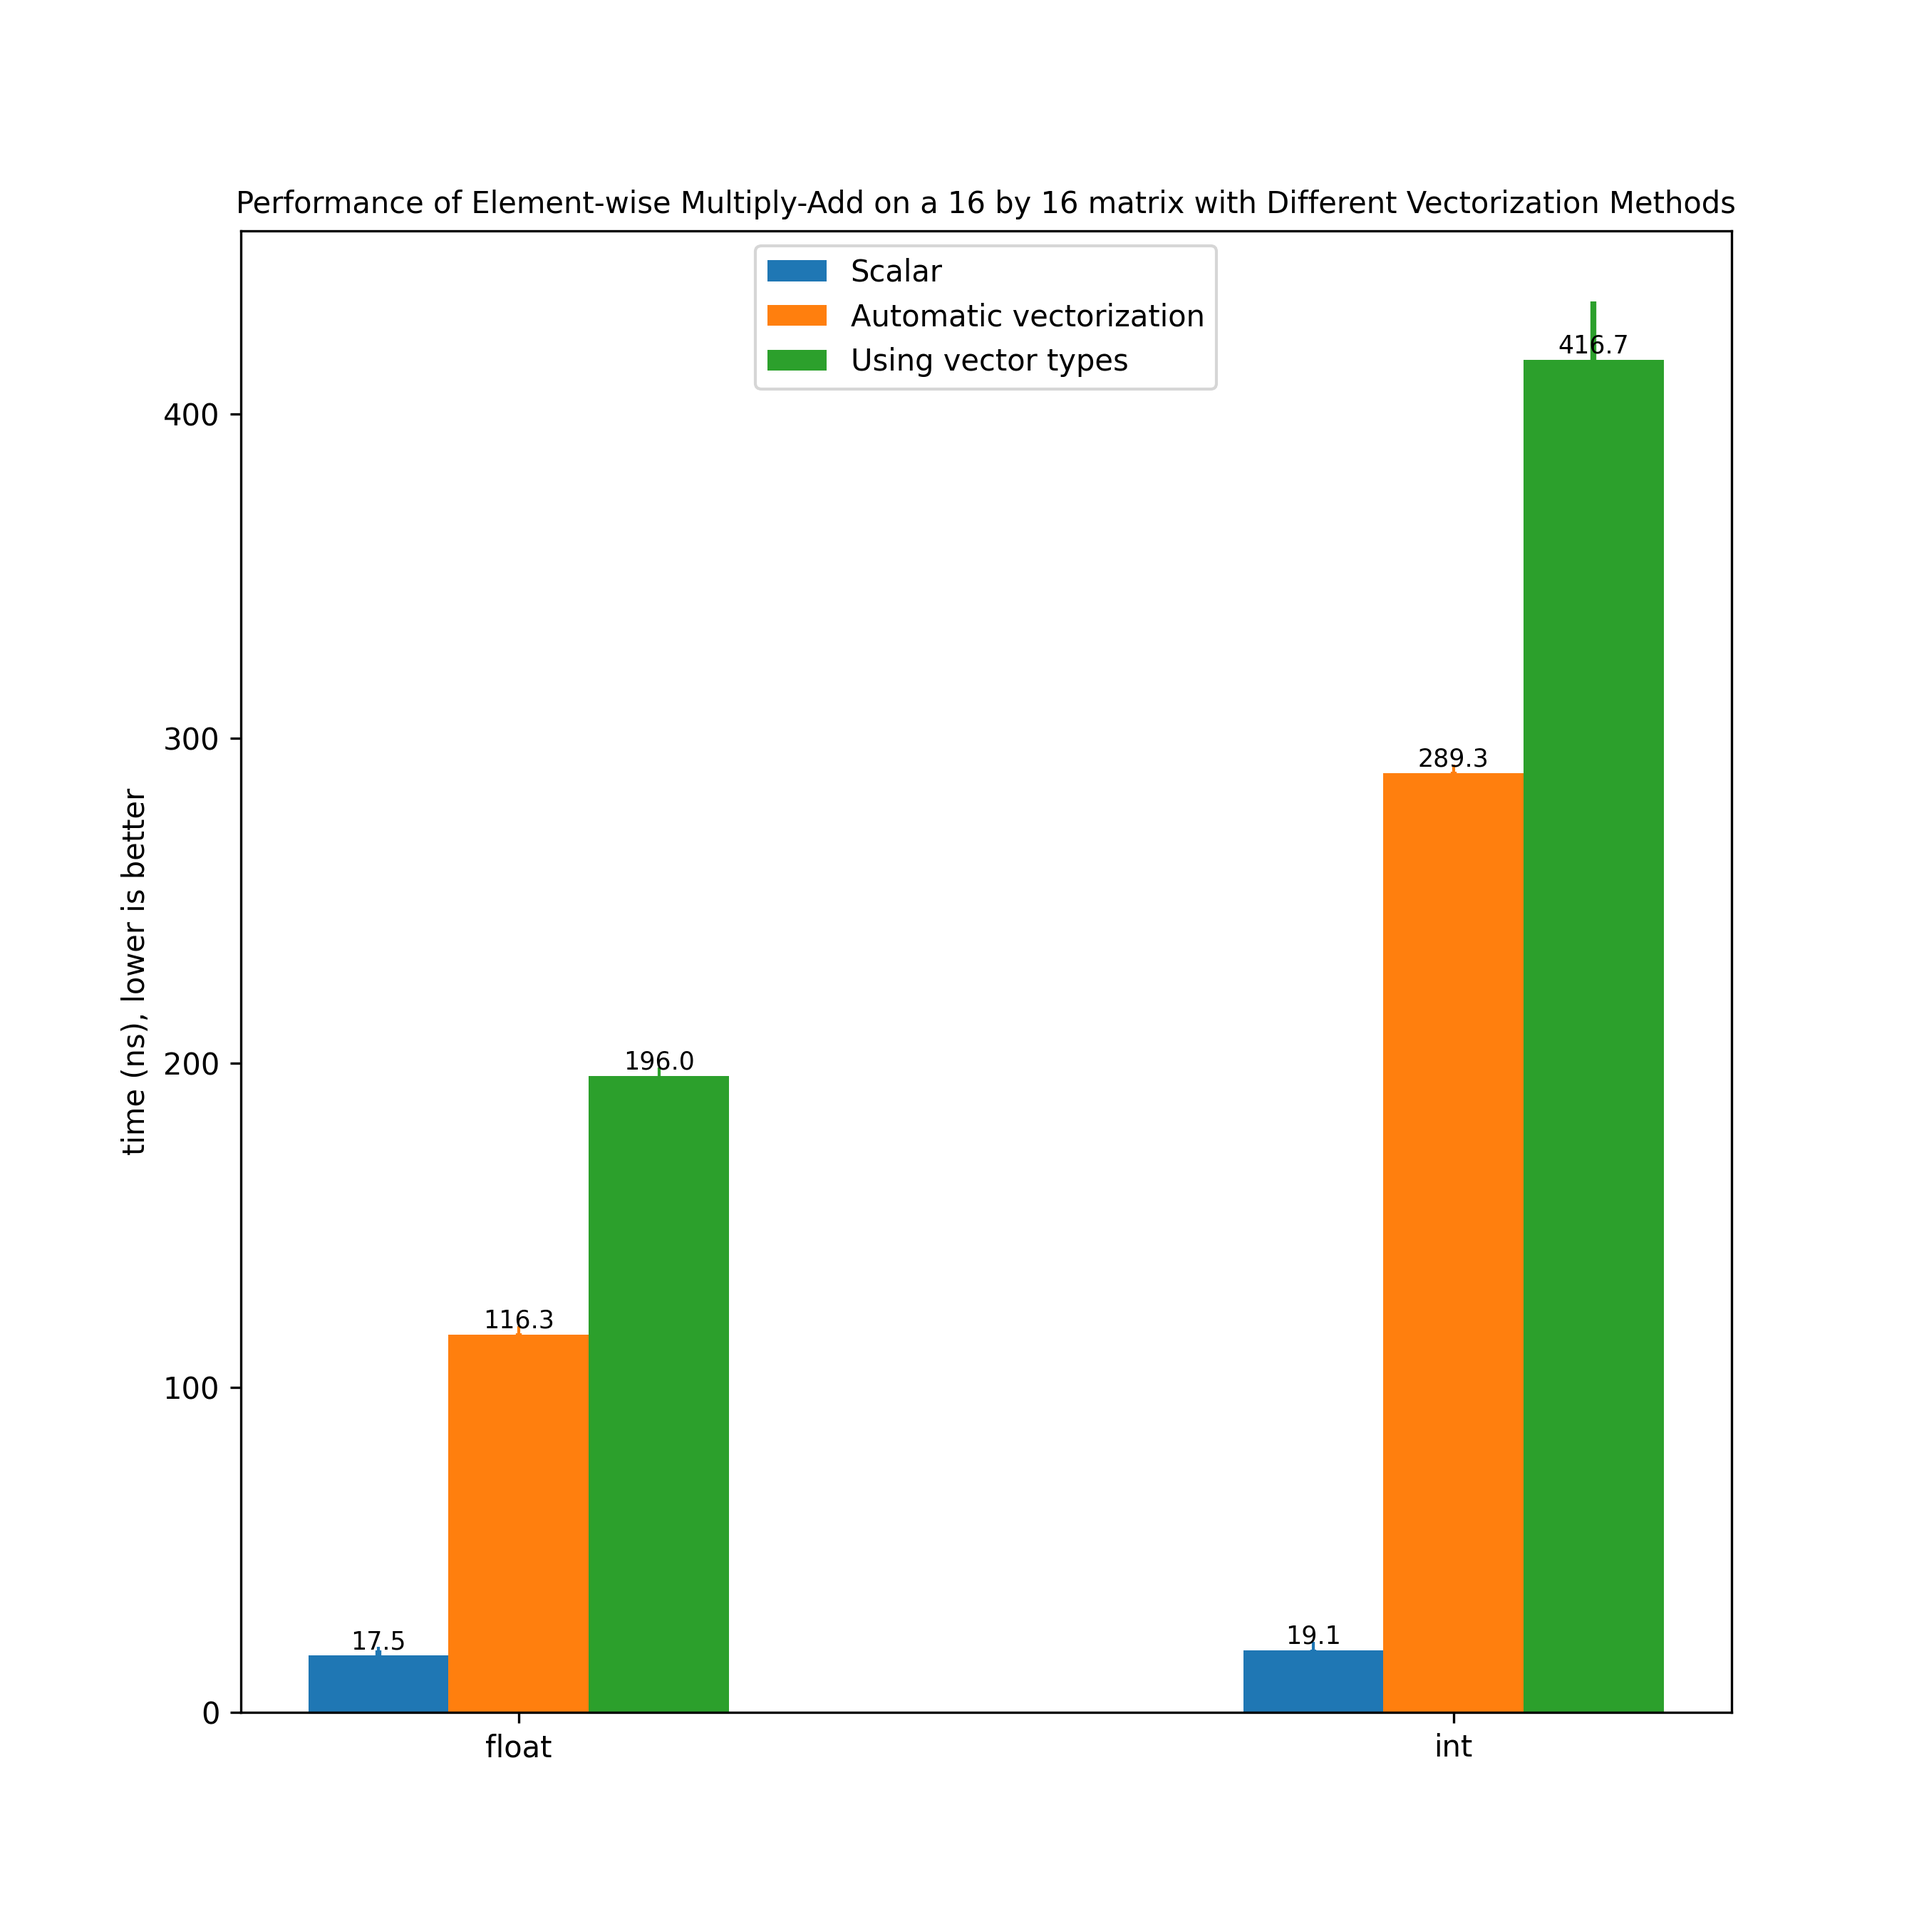
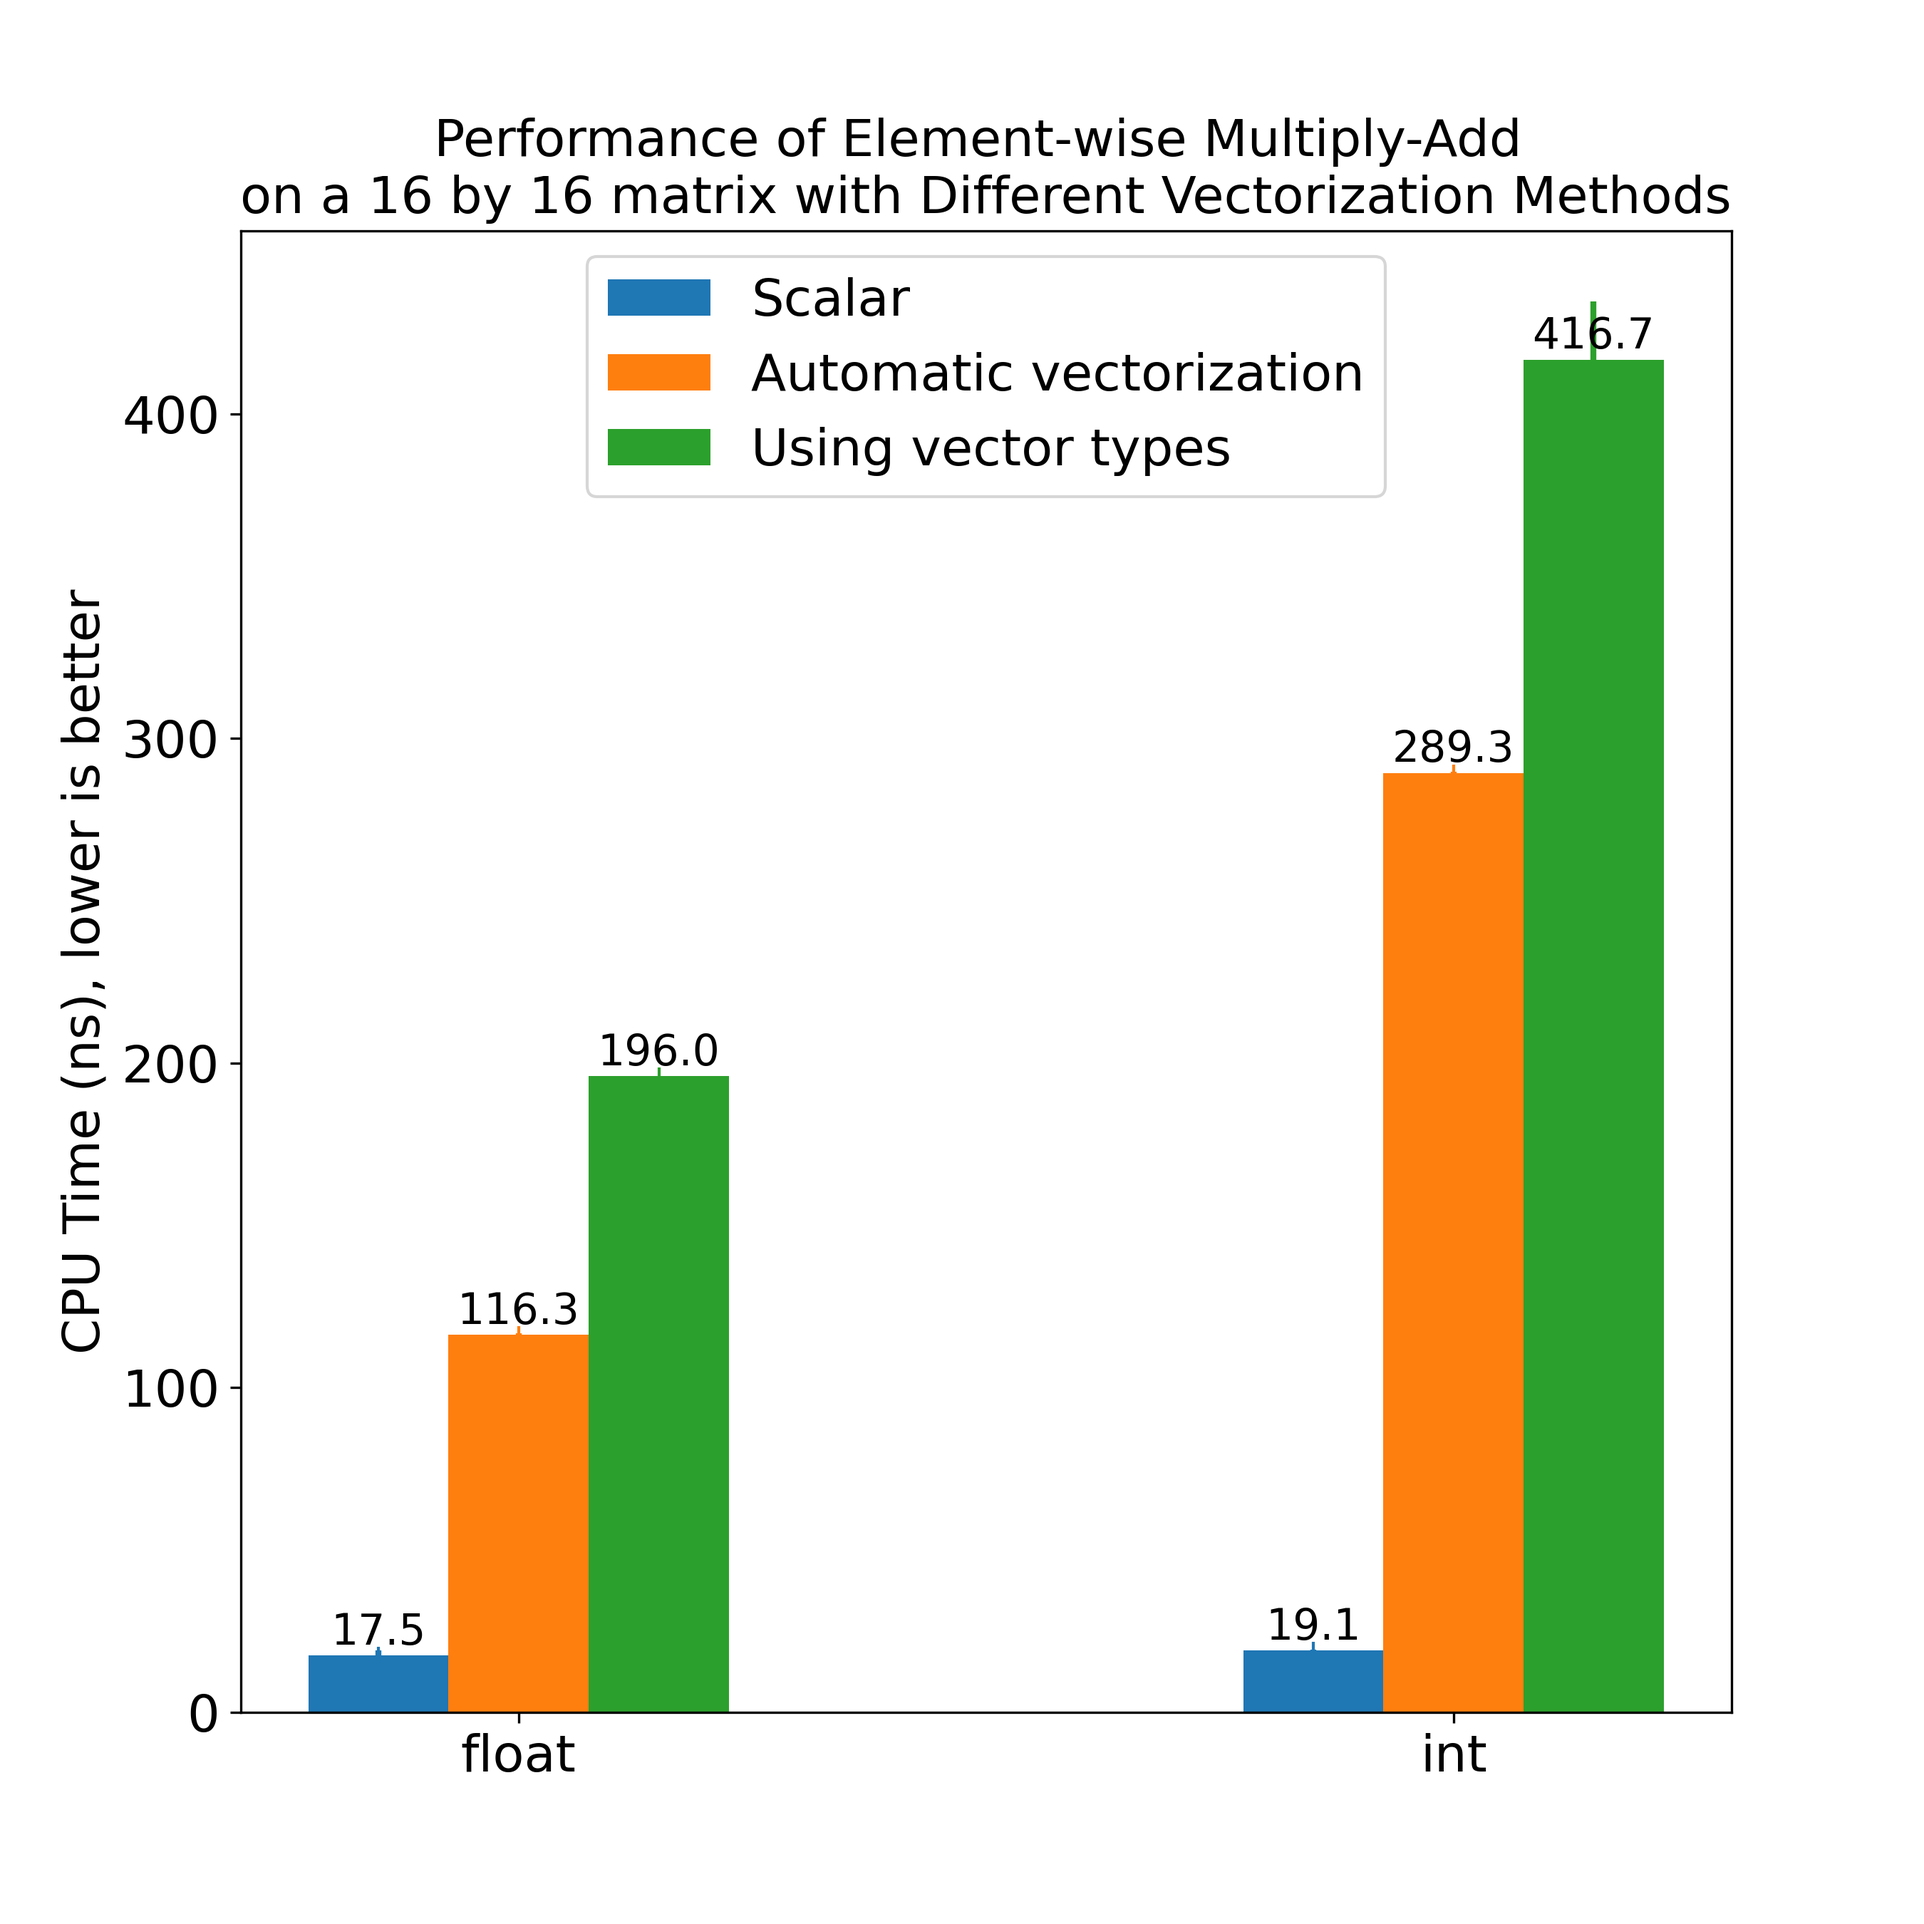
big font

diff --git a/scripts/plot_vectorization_method.py b/scripts/plot_vectorization_method.py
@@ -9,10 +9,10 @@ import numpy as np
 
 filename='bench_vectorization_method'
 
-title = 'Performance of Element-wise Multiply-Add on a 16 by 16 matrix with Different Vectorization Methods' 
+title = 'Performance of Element-wise Multiply-Add \non a 16 by 16 matrix with Different Vectorization Methods' 
 x_axis_label = 'Performance of Element-wise Multiply-Add on a 16 by 16 matrix with Different Vectorization Methods' 
 
-size = "medium"
+size = "xx-large"
 
 xlabel = ['float', 'int', ]
 
@@ -81,8 +81,10 @@ for rect, label in zip(rects, labels):
     txt = height
     if txt != 0:
         ax.text(
-            rect.get_x() + rect.get_width() / 2, height + 0.5, str(round(txt,1)), ha="center", va="bottom", fontsize='small'
+            rect.get_x() + rect.get_width() / 2, height + 0.5, str(round(txt,1)), ha="center", va="bottom", fontsize='x-large'
         )
+
+plt.yticks(fontsize=size)
 
 ax.legend(labels=legends, fontsize=size, loc="upper center")
 # ax.set_ylim(ymin=0,ymax=80)
@@ -91,7 +93,7 @@ for (xs,ys,errs) in zip(xss,yss,errss):
 
 
 plt.xticks([ x for x in xss[1]], list(xlabel), fontsize=size)
-ax.set_ylabel("time (ns), lower is better", fontsize=size)
+ax.set_ylabel("CPU Time (ns), lower is better", fontsize=size)
 # ax.set_xlabel(x_axis_label, fontsize=size)
 ax.set_title(title, fontsize=size)
 plt.savefig('plot_vectorization_method.png', dpi=300)
